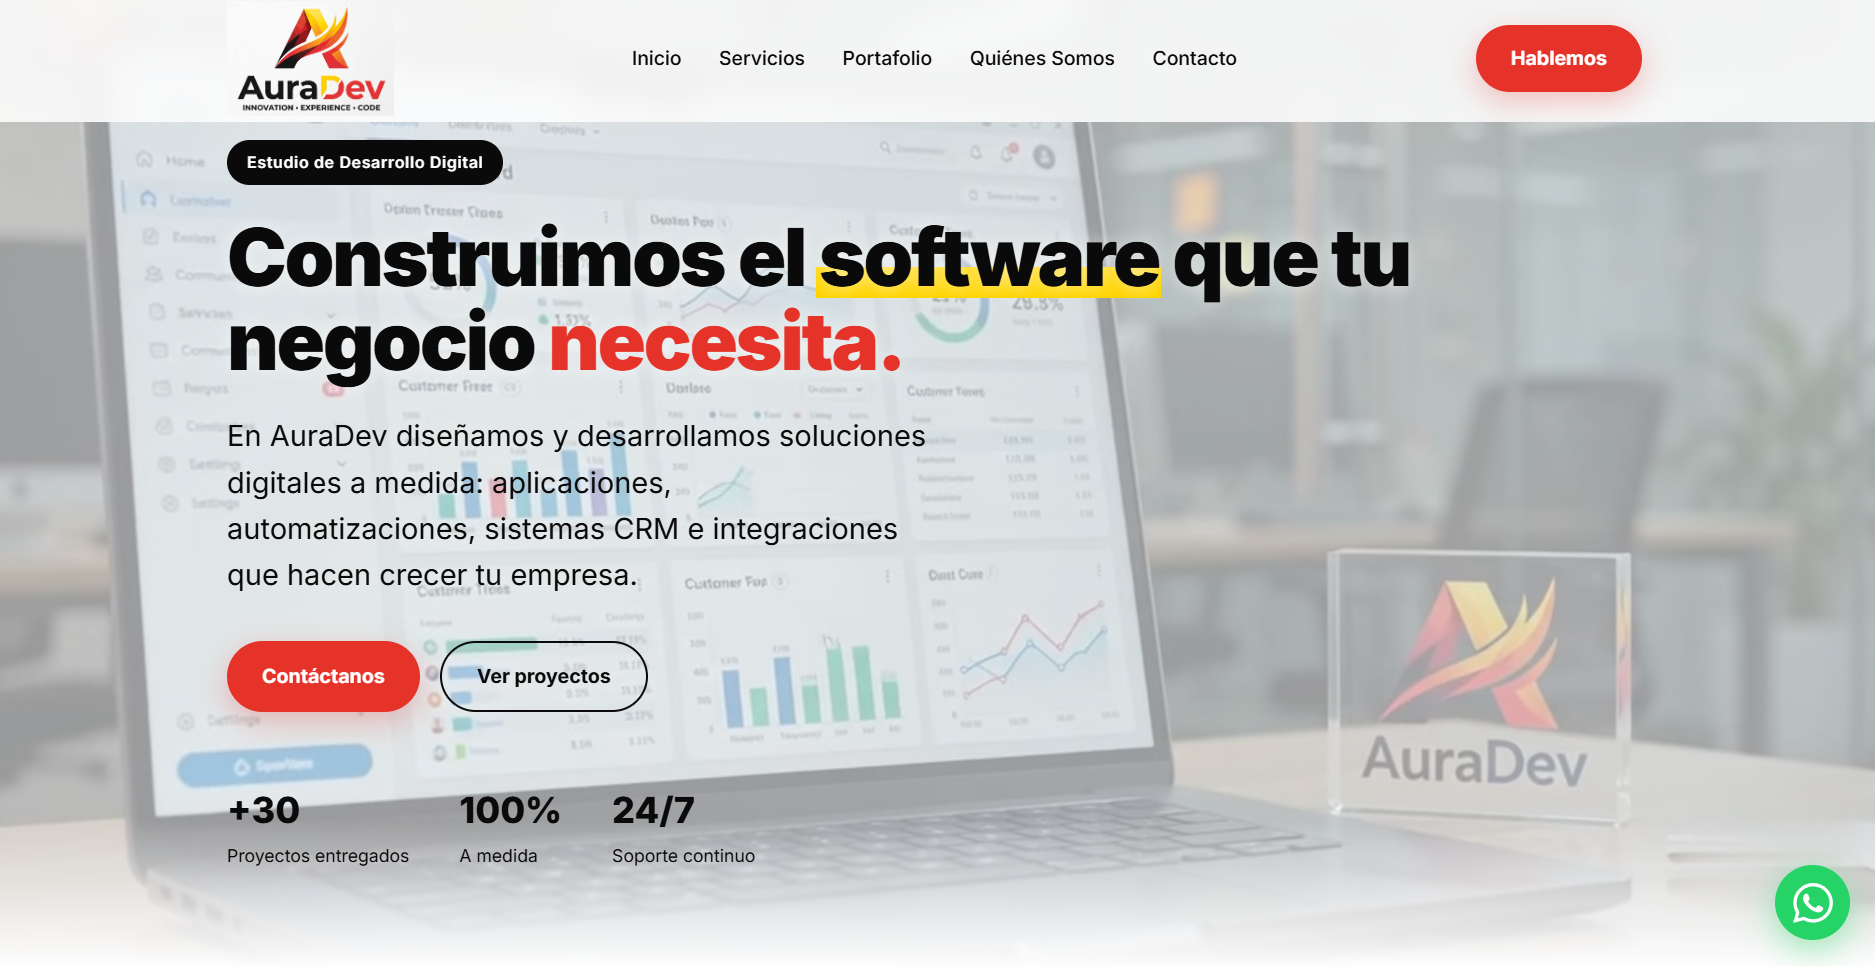
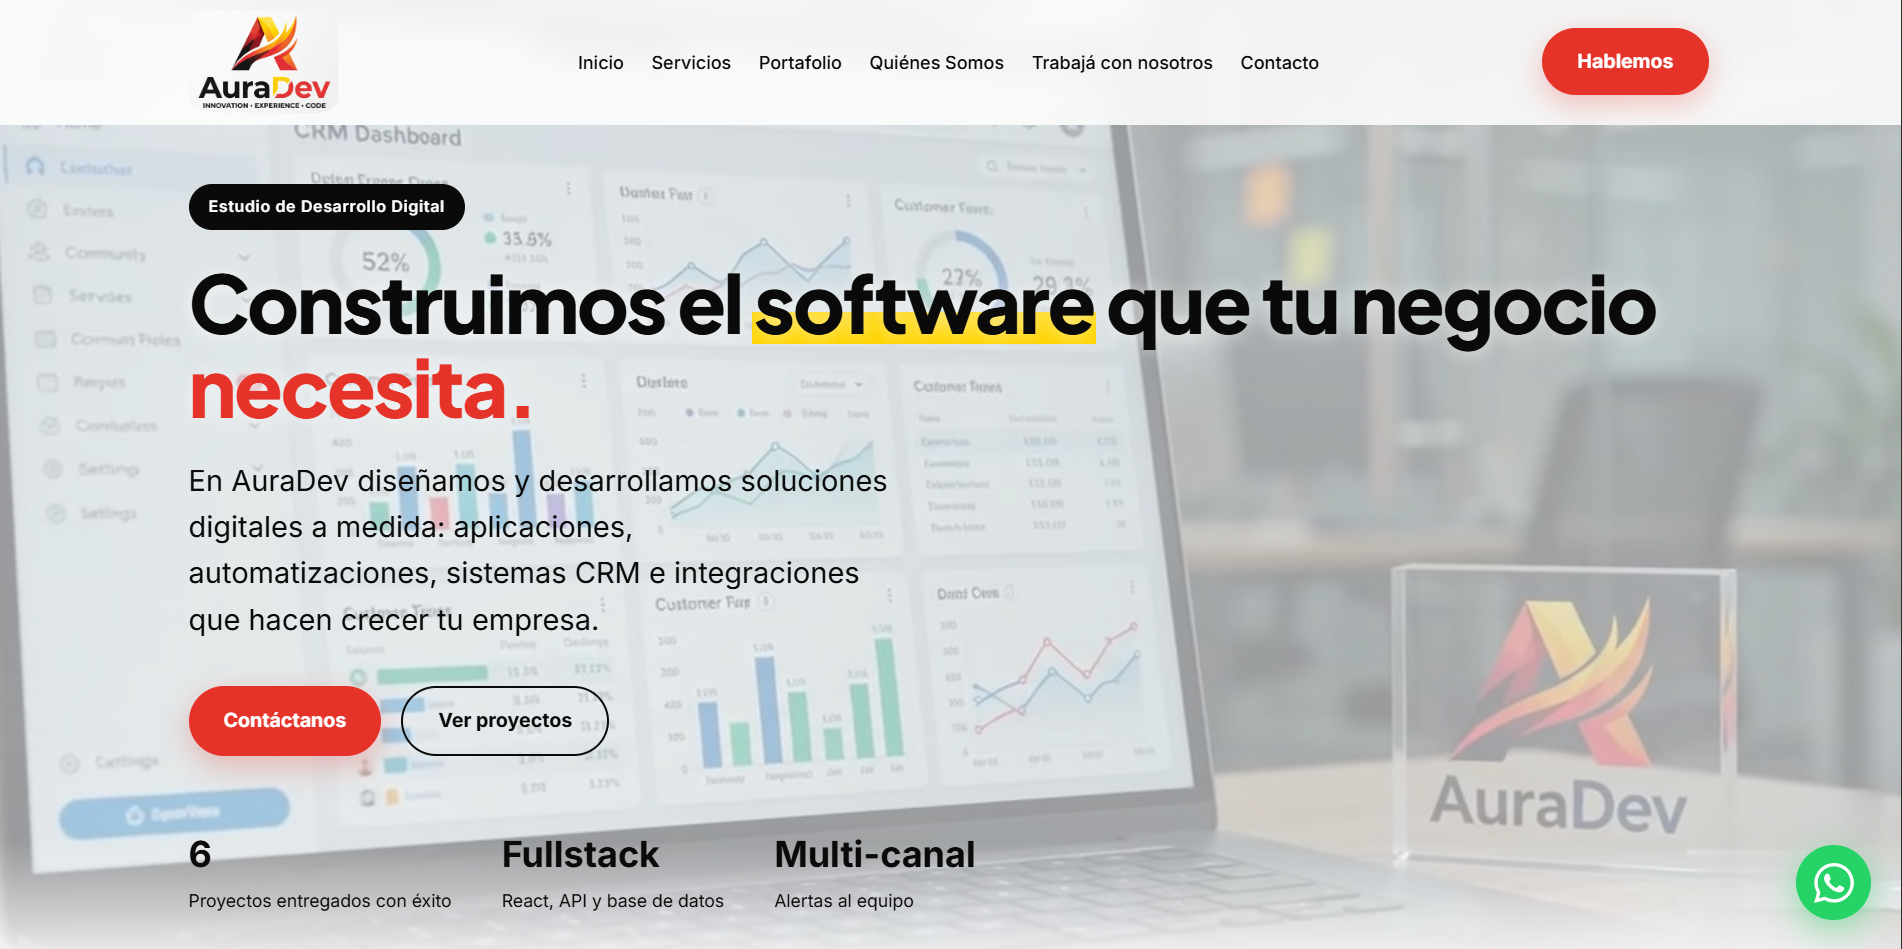
Capturas en README, perfil Vercel en redes y guias de deploy
Galeria PNG en docs/screenshots, checklist Vercel Upstash/WhatsApp, defaults Vercel Projects, auditoria post-plan.

diff --git a/frontend/src/config/contacto.ts b/frontend/src/config/contacto.ts
@@ -12,9 +12,12 @@ export const WHATSAPP_MENSAJE =
   'Hola AuraDev, quiero consultar por un proyecto.'
 
 export const REDES_HANDLE =
-  import.meta.env.VITE_REDES_HANDLE || '@auradev'
+  import.meta.env.VITE_REDES_HANDLE || 'Vercel Projects'
 
-const redesUrlRaw = (import.meta.env.VITE_REDES_URL || '').trim()
+const redesUrlRaw = (
+  import.meta.env.VITE_REDES_URL ||
+  'https://vercel.com/crisneyra13-projects'
+).trim()
 
 export const REDES_URL = redesUrlRaw
 

diff --git a/README.md b/README.md
@@ -1,7 +1,7 @@
 # AuraDev
 
 <p align="center">
-  <img src="docs/preview.png" alt="AuraDev - sitio corporativo" width="800" />
+  <img src="docs/screenshots/preview.png" alt="AuraDev - sitio corporativo" width="800" />
 </p>
 
 Sitio web del estudio **AuraDev**: presencia corporativa, portafolio de 6 proyectos y formulario de contacto con persistencia en PostgreSQL y alertas al equipo (email, Slack, Telegram, WhatsApp).
@@ -33,11 +33,25 @@ AuraDev necesita un sitio que presente servicios y proyectos reales, y un canal 
 
 ---
 
+## Capturas
+
+| Hero / preview | Servicios |
+|:---:|:---:|
+| ![Preview](docs/screenshots/preview.png) | ![Servicios](docs/screenshots/servicios.png) |
+
+| Portafolio | Contacto |
+|:---:|:---:|
+| ![Portafolio](docs/screenshots/portafolio.png) | ![Contacto](docs/screenshots/contacto.png) |
+
+Más detalle en [docs/screenshots/README.md](docs/screenshots/README.md).
+
+---
+
 ## Stack
 
 | Capa | Tecnología |
 |------|------------|
-| Frontend | React 18, Vite 6, JavaScript (migración gradual a TypeScript en componentes críticos) |
+| Frontend | React 18, Vite 6, TypeScript en componentes críticos |
 | API | Node.js, Express, TypeScript, Zod |
 | Base de datos | PostgreSQL (Neon) con Drizzle ORM |
 | Seguridad | Helmet, CORS, honeypot, rate limit (Upstash o memoria en local) |
@@ -53,7 +67,7 @@ AuraDev/
 ├── frontend/          # React + Vite
 ├── backend/           # Express + handlers TypeScript
 ├── api/               # Entradas serverless Vercel
-├── docs/              # Preview y guía de screenshots
+├── docs/              # Preview, screenshots y guías
 └── vercel.json
 ```
 
@@ -118,9 +132,13 @@ npm run typecheck
 
 ---
 
-## Capturas y documentación visual
+## Deploy en Vercel
 
-Ver [docs/screenshots/README.md](docs/screenshots/README.md) para generar PNG/GIF del hero, servicios, portafolio, contacto y `/whatsapp`.
+Checklist de variables de entorno: [docs/vercel-checklist.md](docs/vercel-checklist.md)
+
+- Upstash (`UPSTASH_REDIS_REST_*`) para rate limit en producción
+- `VITE_REDES_URL` / `VITE_REDES_HANDLE` para link a [perfil Vercel](https://vercel.com/crisneyra13-projects)
+- WhatsApp plantilla: [docs/whatsapp-template.md](docs/whatsapp-template.md)
 
 ---
 
@@ -131,7 +149,7 @@ Detalle en `backend/.env.example`:
 - **SMTP** — email al equipo y auto-respuesta al cliente (`ENABLE_AUTO_REPLY`)
 - **WEBHOOK_URL** — Slack o Discord
 - **TELEGRAM_BOT_TOKEN** + **TELEGRAM_CHAT_ID** — Bot API (recomendado)
-- **WHATSAPP_*** — Cloud API Meta; plantilla `auradev_nuevo_contacto` para 24/7 (ver [docs/whatsapp-template.md](docs/whatsapp-template.md))
+- **WHATSAPP_*** — Cloud API Meta; plantilla `auradev_nuevo_contacto` para 24/7
 
 Variables del frontend (`VITE_*`) en `frontend/.env.example`.
 
@@ -145,7 +163,7 @@ Variables del frontend (`VITE_*`) en `frontend/.env.example`.
 
 ## Contacto
 
-[Formulario en la web](https://auradev-eta.vercel.app/#contacto) · hola@auradev.com
+[Formulario en la web](https://auradev-eta.vercel.app/#contacto) · hola@auradev.com · [Vercel Projects](https://vercel.com/crisneyra13-projects)
 
 ---
 

diff --git a/docs/screenshots/README.md b/docs/screenshots/README.md
@@ -1,47 +1,29 @@
 # Guía de capturas para el README
 
-Esta guía explica cómo generar y ubicar screenshots o GIFs del sitio AuraDev para documentación profesional en GitHub.
+Capturas actuales del sitio AuraDev para documentación en GitHub.
 
-## Qué capturar
+## Archivos en esta carpeta
 
-| Archivo sugerido | Contenido |
-|------------------|-----------|
-| `docs/preview.png` | Hero completo (ya usado en README principal) |
-| `docs/screenshots/servicios.png` | Grid de servicios con un modal abierto |
-| `docs/screenshots/portafolio.png` | Sección portafolio con las 6 cards |
-| `docs/screenshots/contacto.png` | Formulario de contacto (estado idle o éxito) |
-| `docs/screenshots/whatsapp-bridge.png` | Página `/whatsapp` con logo AuraDev |
-| `docs/screenshots/proyecto-detalle.gif` | Opcional: scroll en detalle de proyecto |
+| Archivo | Contenido |
+|---------|-----------|
+| `preview.png` | Hero / vista principal |
+| `servicios.png` | Sección servicios |
+| `portafolio.png` | Grid de 6 proyectos |
+| `contacto.png` | Formulario de contacto |
 
-## Herramientas en Windows
+El README principal también puede usar `docs/preview.png` en la raíz de `docs/` (misma imagen o copia del preview).
 
-1. **Captura estática:** `Win + Shift + S` (Snipping Tool) o [ShareX](https://getsharex.com/).
-2. **GIF corto:** [ScreenToGif](https://www.screentogif.com/) — exportar &lt; 2 MB.
-3. **Recorte:** mantener ancho ~1200–1400 px para README; GitHub escala a 800 px.
+## Cómo actualizar
 
-## Pasos
+1. Levantar el sitio: `npm run dev` → `http://localhost:5173`
+2. Capturar con **Win + Shift + S** (Snipping Tool) o [ShareX](https://getsharex.com/).
+3. Guardar en esta carpeta con el mismo nombre.
+4. Ancho recomendado: ~1200–1400 px; optimizar PNG (&lt; 500 KB si es posible).
 
-1. Levantar el sitio local: `npm run dev` → abrir `http://localhost:5173`.
-2. Navegar a la sección o ruta indicada.
-3. Capturar solo el contenido relevante (evitar barra del navegador si es posible).
-4. Guardar en `docs/screenshots/` con el nombre de la tabla.
-5. En `README.md`, enlazar:
+Para capturas de producción: [auradev-eta.vercel.app](https://auradev-eta.vercel.app)
+
+## Enlazar en README
 
 ```markdown
 ![Portafolio](docs/screenshots/portafolio.png)
 ```
-
-## Producción (demo en vivo)
-
-Para capturas idénticas a producción, usar la demo:
-
-[https://auradev-eta.vercel.app](https://auradev-eta.vercel.app)
-
-Mismos nombres de archivo; opcionalmente subfolder `docs/screenshots/prod/`.
-
-## Buenas prácticas
-
-- Formato PNG para UI estática; WebP o GIF para animaciones cortas.
-- No incluir datos personales reales en formularios de prueba.
-- Actualizar capturas cuando cambie el diseño de una sección importante.
-- Commitear imágenes optimizadas (&lt; 500 KB por PNG cuando sea posible).

diff --git a/docs/auditoria.md b/docs/auditoria.md
@@ -1,0 +1,52 @@
+# Auditoría AuraDev — post plan 10/10 + cierre
+
+**Fecha:** 2026-08-09  
+**Demo:** [auradev-eta.vercel.app](https://auradev-eta.vercel.app)  
+**Repo:** `main` (commits `878e302` + cambios de capturas/redes)
+
+---
+
+## Nota orientativa
+
+| Perspectiva | Nota | Comentario |
+|-------------|------|------------|
+| Portfolio fullstack | **9/10** | Credibilidad, portafolio curado, TS en rutas críticas, README con capturas, narrativa "por qué" |
+| Producto para clientes exigentes | **8/10** | Falta confirmar Upstash y plantilla WA en producción (config manual Vercel/Meta) |
+
+---
+
+## Tabla QA
+
+| Área | Estado | Notas |
+|------|--------|-------|
+| Happy path contacto | OK | DB + notificaciones; `waitUntil` en Vercel |
+| Validación | Buena | Zod front + back |
+| Anti-spam | Parcial → listo en código | Upstash en `rateLimit.ts`; **requiere vars en Vercel** ([vercel-checklist.md](vercel-checklist.md)) |
+| Accesibilidad | Buena | Teclado servicios, focus trap modal, aria-live contacto |
+| Reduced motion | Buena | Hero, Reveal, Lottie, modal |
+| Responsive | Aceptable | Breakpoints ~880px |
+| Regresión | Mejor | Tests contacto (backend) + proyectos (frontend); CI en `.github/workflows/ci.yml` |
+| Credibilidad copy | OK | Hero `6 / Fullstack / Multi-canal`; sin skeleton fake; CTAs honestos |
+| Portafolio | OK | 6 proyectos; detalle con problema / stack / desafío |
+| Redes | OK en código | Default + `.env.example`: link [Vercel Projects](https://vercel.com/crisneyra13-projects); redeploy Vercel si solo cambiaste env en dashboard |
+| WhatsApp | Pendiente Meta | Código + guía plantilla; 24/7 cuando `auradev_nuevo_contacto` aprobada |
+| Documentación | OK | README sobrio, galería PNG, guías screenshots / WhatsApp / Vercel |
+| Deploy | OK demo | Monorepo Vercel; API TypeScript |
+
+---
+
+## Verificaciones manuales recomendadas
+
+1. **Upstash:** tras configurar vars → 6 envíos contacto en 10 min → 6º = **429**.
+2. **Redes:** Contacto muestra "Vercel Projects" con link al perfil.
+3. **WhatsApp:** tras aprobación Meta → vars template → formulario → log con `template: auradev_nuevo_contacto`.
+4. **Tab + modal:** abrir servicio con Enter; Tab atrapado en modal; Escape cierra.
+5. **GitHub README:** galería de 4 capturas visible.
+
+---
+
+## Pendientes para 10/10 producto
+
+- [ ] `UPSTASH_REDIS_REST_URL` + `UPSTASH_REDIS_REST_TOKEN` en Vercel + redeploy
+- [ ] Plantilla Meta `auradev_nuevo_contacto` aprobada + vars en Vercel
+- [ ] (Opcional) Dominio corto `auradev.vercel.app` en Vercel Settings → Domains

diff --git a/docs/vercel-checklist.md b/docs/vercel-checklist.md
@@ -1,0 +1,70 @@
+# Checklist manual — Vercel (AuraDev)
+
+Pasos en el dashboard de [Vercel](https://vercel.com) → proyecto **auradev** / **auradev-eta** → **Settings** → **Environment Variables**.
+
+Marcar **Production**, **Preview** y **Development** en cada variable. Después de cada bloque: **Deployments** → último deploy → **Redeploy**.
+
+---
+
+## 1. Upstash (rate limit distribuido)
+
+1. Crear Redis en [console.upstash.com](https://console.upstash.com/) (plan gratis).
+2. Copiar de la pestaña **REST API**:
+   - `UPSTASH_REDIS_REST_URL`
+   - `UPSTASH_REDIS_REST_TOKEN`
+3. Pegar en Vercel:
+
+| Variable | Descripción |
+|----------|-------------|
+| `UPSTASH_REDIS_REST_URL` | URL REST del Redis |
+| `UPSTASH_REDIS_REST_TOKEN` | Token REST |
+
+4. Redeploy.
+5. **Probar:** enviar 6 formularios de contacto en 10 min desde la misma red → el 6º debe responder **429**.
+
+Sin estas variables, el API usa rate limit en memoria (débil en serverless).
+
+---
+
+## 2. Redes — perfil Vercel (frontend)
+
+| Variable | Valor |
+|----------|--------|
+| `VITE_REDES_URL` | `https://vercel.com/crisneyra13-projects` |
+| `VITE_REDES_HANDLE` | `Vercel Projects` |
+
+Redeploy (las `VITE_*` se embeben en el build).
+
+**Verificar:** sección Contacto → link "Vercel Projects" abre el perfil.
+
+---
+
+## 3. WhatsApp plantilla 24/7 (cuando Meta apruebe)
+
+Ver [whatsapp-template.md](whatsapp-template.md).
+
+| Variable | Valor |
+|----------|--------|
+| `WHATSAPP_TEMPLATE_NAME` | `auradev_nuevo_contacto` |
+| `WHATSAPP_TEMPLATE_LANG` | `es` |
+
+Asegurarse de tener también: `WHATSAPP_TOKEN`, `WHATSAPP_PHONE_NUMBER_ID`, `WHATSAPP_TO`.
+
+Redeploy y probar formulario en producción. En logs: `template: auradev_nuevo_contacto`.
+
+---
+
+## Variables ya existentes (revisar)
+
+Backend / API (serverless):
+
+- `DATABASE_URL`
+- `SMTP_*`, `MAIL_FROM`, `MAIL_TO`
+- `TELEGRAM_BOT_TOKEN`, `TELEGRAM_CHAT_ID`
+- `WEBHOOK_URL` (opcional)
+- `WHATSAPP_*`
+
+Frontend (build time):
+
+- `VITE_WHATSAPP_NUMERO`, `VITE_WHATSAPP_DISPLAY`
+- `VITE_EMAIL`
